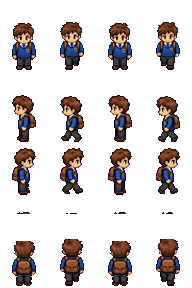
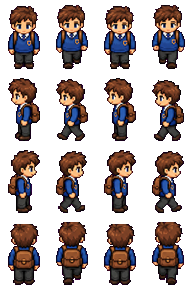
fix(2.5D): hero right-walk float - rewrite process-hero-art.ps1 (PowerShell case-insensitive var collision + gap-tolerant feet detection); all 16 frames feet-aligned; v2.0.6

diff --git a/index.html b/index.html
@@ -8,14 +8,14 @@
     <meta http-equiv="Pragma" content="no-cache">
     <meta http-equiv="Expires" content="0">
     <title>Citizenship Valley</title>
-    <link rel="stylesheet" href="styles.css?v=2.0.5">
+    <link rel="stylesheet" href="styles.css?v=2.0.6">
 </head>
 
-<body data-app-version="2.0.5">
+<body data-app-version="2.0.6">
     <main class="game-shell">
         <section class="stage" aria-label="Citizenship Valley game">
             <canvas id="game" width="1280" height="768"></canvas>
-            <div id="appVersion" class="app-version" aria-label="App version">v2.0.5</div>
+            <div id="appVersion" class="app-version" aria-label="App version">v2.0.6</div>
             <div id="titleScreen" class="intro-overlay hidden" aria-label="Title screen">
                 <div class="intro-card">
                     <h2 class="intro-title">Citizenship Valley</h2>
@@ -311,8 +311,8 @@
         </aside>
     </main>
 
-    <script src="curriculum.js?v=2.0.5"></script>
-    <script src="game.js?v=2.0.5"></script>
+    <script src="curriculum.js?v=2.0.6"></script>
+    <script src="game.js?v=2.0.6"></script>
 </body>
 
 </html>